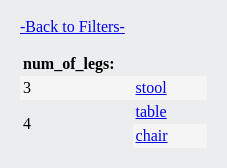
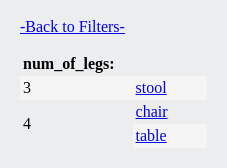
Sort model data by answer column

Changed region(s): [[0.5859, 0.7738, 0.7401, 0.8631], [0.5859, 0.625, 0.7401, 0.7143]]

diff --git a/examples/horse/rank_pages/subpage/match_1.html b/examples/horse/rank_pages/subpage/match_1.html
@@ -4,7 +4,7 @@ File was automatically generated using 'rank-page-generator' project (https://gi
 Project is distributed under the BSD 3-Clause license.
 -->
 <head>
-<title>unicorn - Horse recognition</title>
+<title>pegasus - Horse recognition</title>
 <link rel="stylesheet" type="text/css" href="../styles.css">
 </head>
 <body>
@@ -17,18 +17,18 @@ Project is distributed under the BSD 3-Clause license.
 <div class="characteristics bottomspace">
 <table cellspacing="0">
 <tr> <th>Parameter:</th> <th>Value:</th> </tr>
-<tr> <td>name</td> <td>unicorn</td> </tr>
-<tr> <td>horn</td> <td>yes</td> </tr>
-<tr> <td>wings</td> <td>no</td> </tr>
+<tr> <td>name</td> <td>pegasus</td> </tr>
+<tr> <td>horn</td> <td>no</td> </tr>
+<tr> <td>wings</td> <td>yes</td> </tr>
 <tr> <td>exists</td> <td>fantasy</td> </tr>
-<tr> <td>link</td> <td><a href="https://en.wikipedia.org/wiki/Unicorn">https://en.wikipedia.org/wiki/Unicorn</a></td> </tr>
+<tr> <td>link</td> <td><a href="https://en.wikipedia.org/wiki/Pegasus">https://en.wikipedia.org/wiki/Pegasus</a></td> </tr>
 </table>
 </div>
 <div class="photogallery bottomspace">
 <div class="photostitle">Photos:</div>
 <div class="imgtile">
-    <a href="../img/unicorn/Oftheunicorn.jpg"><img src="../img/unicorn/Oftheunicorn.jpg"></a>
-    <div class="license"><div>License:</div><a href="https://commons.wikimedia.org/wiki/File:Oftheunicorn.jpg">Special Collections, University of Houston Libraries</a>, Public domain, via Wikimedia Commons
+    <a href="../img/pegasus/Pegaz_Opera_Poznan.jpg"><img src="../img/pegasus/Pegaz_Opera_Poznan.jpg"></a>
+    <div class="license"><div>License:</div><a href="https://commons.wikimedia.org/wiki/File:Pegaz_Opera_Pozna%C5%84.jpg">user:Radomil</a>, <a href="http://creativecommons.org/licenses/by-sa/3.0/">CC BY-SA 3.0</a>, via Wikimedia Commons
 </div>
 </div>
 </div>

diff --git a/examples/horse/rank_pages/subpage/match_2.html b/examples/horse/rank_pages/subpage/match_2.html
@@ -4,7 +4,7 @@ File was automatically generated using 'rank-page-generator' project (https://gi
 Project is distributed under the BSD 3-Clause license.
 -->
 <head>
-<title>pegasus - Horse recognition</title>
+<title>unicorn - Horse recognition</title>
 <link rel="stylesheet" type="text/css" href="../styles.css">
 </head>
 <body>
@@ -17,18 +17,18 @@ Project is distributed under the BSD 3-Clause license.
 <div class="characteristics bottomspace">
 <table cellspacing="0">
 <tr> <th>Parameter:</th> <th>Value:</th> </tr>
-<tr> <td>name</td> <td>pegasus</td> </tr>
-<tr> <td>horn</td> <td>no</td> </tr>
-<tr> <td>wings</td> <td>yes</td> </tr>
+<tr> <td>name</td> <td>unicorn</td> </tr>
+<tr> <td>horn</td> <td>yes</td> </tr>
+<tr> <td>wings</td> <td>no</td> </tr>
 <tr> <td>exists</td> <td>fantasy</td> </tr>
-<tr> <td>link</td> <td><a href="https://en.wikipedia.org/wiki/Pegasus">https://en.wikipedia.org/wiki/Pegasus</a></td> </tr>
+<tr> <td>link</td> <td><a href="https://en.wikipedia.org/wiki/Unicorn">https://en.wikipedia.org/wiki/Unicorn</a></td> </tr>
 </table>
 </div>
 <div class="photogallery bottomspace">
 <div class="photostitle">Photos:</div>
 <div class="imgtile">
-    <a href="../img/pegasus/Pegaz_Opera_Poznan.jpg"><img src="../img/pegasus/Pegaz_Opera_Poznan.jpg"></a>
-    <div class="license"><div>License:</div><a href="https://commons.wikimedia.org/wiki/File:Pegaz_Opera_Pozna%C5%84.jpg">user:Radomil</a>, <a href="http://creativecommons.org/licenses/by-sa/3.0/">CC BY-SA 3.0</a>, via Wikimedia Commons
+    <a href="../img/unicorn/Oftheunicorn.jpg"><img src="../img/unicorn/Oftheunicorn.jpg"></a>
+    <div class="license"><div>License:</div><a href="https://commons.wikimedia.org/wiki/File:Oftheunicorn.jpg">Special Collections, University of Houston Libraries</a>, Public domain, via Wikimedia Commons
 </div>
 </div>
 </div>

diff --git a/examples/horse/rank_pages/subpage/category_1.html b/examples/horse/rank_pages/subpage/category_1.html
@@ -11,8 +11,8 @@
 <table cellspacing="0" class="categoriestable">
 <tr> <th>wings:</th> </tr>
 <tr class="roweven"> <td rowspan='2'>no</td> <td><a href="../subpage/match_0.html">horse</a></td> <td><div class='minigallery'><a href="../img/horse/Horse-and-pony.jpeg"><img src="../img/horse/Horse-and-pony.jpeg"></a><a href="../img/horse/Nokota_Horses_cropped.jpeg"><img src="../img/horse/Nokota_Horses_cropped.jpeg"></a><a href="../img/horse/Horsescd1l-095.jpeg"><img src="../img/horse/Horsescd1l-095.jpeg"></a></div></td> </tr>
-<tr class="rowodd">  <td><a href="../subpage/match_1.html">unicorn</a></td> <td><div class='minigallery'><a href="../img/unicorn/Oftheunicorn.jpg"><img src="../img/unicorn/Oftheunicorn.jpg"></a></div></td> </tr>
-<tr class="rowodd"> <td rowspan='1'>yes</td> <td><a href="../subpage/match_2.html">pegasus</a></td> <td><div class='minigallery'><a href="../img/pegasus/Pegaz_Opera_Poznan.jpg"><img src="../img/pegasus/Pegaz_Opera_Poznan.jpg"></a></div></td> </tr>
+<tr class="rowodd">  <td><a href="../subpage/match_2.html">unicorn</a></td> <td><div class='minigallery'><a href="../img/unicorn/Oftheunicorn.jpg"><img src="../img/unicorn/Oftheunicorn.jpg"></a></div></td> </tr>
+<tr class="rowodd"> <td rowspan='1'>yes</td> <td><a href="../subpage/match_1.html">pegasus</a></td> <td><div class='minigallery'><a href="../img/pegasus/Pegaz_Opera_Poznan.jpg"><img src="../img/pegasus/Pegaz_Opera_Poznan.jpg"></a></div></td> </tr>
 </table>
 
 </div>

diff --git a/examples/horse/rank_pages/subpage/category_0.html b/examples/horse/rank_pages/subpage/category_0.html
@@ -11,8 +11,8 @@
 <table cellspacing="0" class="categoriestable">
 <tr> <th>horn:</th> </tr>
 <tr class="roweven"> <td rowspan='2'>no</td> <td><a href="../subpage/match_0.html">horse</a></td> <td><div class='minigallery'><a href="../img/horse/Horse-and-pony.jpeg"><img src="../img/horse/Horse-and-pony.jpeg"></a><a href="../img/horse/Nokota_Horses_cropped.jpeg"><img src="../img/horse/Nokota_Horses_cropped.jpeg"></a><a href="../img/horse/Horsescd1l-095.jpeg"><img src="../img/horse/Horsescd1l-095.jpeg"></a></div></td> </tr>
-<tr class="rowodd">  <td><a href="../subpage/match_2.html">pegasus</a></td> <td><div class='minigallery'><a href="../img/pegasus/Pegaz_Opera_Poznan.jpg"><img src="../img/pegasus/Pegaz_Opera_Poznan.jpg"></a></div></td> </tr>
-<tr class="rowodd"> <td rowspan='1'>yes</td> <td><a href="../subpage/match_1.html">unicorn</a></td> <td><div class='minigallery'><a href="../img/unicorn/Oftheunicorn.jpg"><img src="../img/unicorn/Oftheunicorn.jpg"></a></div></td> </tr>
+<tr class="rowodd">  <td><a href="../subpage/match_1.html">pegasus</a></td> <td><div class='minigallery'><a href="../img/pegasus/Pegaz_Opera_Poznan.jpg"><img src="../img/pegasus/Pegaz_Opera_Poznan.jpg"></a></div></td> </tr>
+<tr class="rowodd"> <td rowspan='1'>yes</td> <td><a href="../subpage/match_2.html">unicorn</a></td> <td><div class='minigallery'><a href="../img/unicorn/Oftheunicorn.jpg"><img src="../img/unicorn/Oftheunicorn.jpg"></a></div></td> </tr>
 </table>
 
 </div>

diff --git a/examples/furniture/rank_pages/index.html b/examples/furniture/rank_pages/index.html
@@ -11,8 +11,8 @@ Project is distributed under the BSD 3-Clause license.
 const ANSWER_COLUMN = "name";
 const VALUES_DICT = {'num_of_legs': [3, 4], 'back': ['no', 'yes'], 'name': ['chair', 'stool', 'table']};
 const CATEGORY_PAGE = {'num_of_legs': 'pages/category_0.html', 'back': 'pages/category_1.html'};
-const DETAILS_PAGE = {'table': 'pages/match_0.html', 'chair': 'pages/match_1.html', 'stool': 'pages/match_2.html'};
-const WEIGHTS_DICT = {'table': {'num_of_legs': {3: 0.0, 4: 1.0}, 'back': {'no': 1.0, 'yes': 0.0}}, 'chair': {'num_of_legs': {3: 0.0, 4: 1.0}, 'back': {'no': 0.0, 'yes': 1.0}}, 'stool': {'num_of_legs': {3: 1.0, 4: 0.0}, 'back': {'no': 1.0, 'yes': 0.0}}};
+const DETAILS_PAGE = {'chair': 'pages/match_0.html', 'stool': 'pages/match_1.html', 'table': 'pages/match_2.html'};
+const WEIGHTS_DICT = {'chair': {'num_of_legs': {3: 0.0, 4: 1.0}, 'back': {'no': 0.0, 'yes': 1.0}}, 'stool': {'num_of_legs': {3: 1.0, 4: 0.0}, 'back': {'no': 1.0, 'yes': 0.0}}, 'table': {'num_of_legs': {3: 0.0, 4: 1.0}, 'back': {'no': 1.0, 'yes': 0.0}}};
 const TRANSLATION_DICT = {'Reset filters': '-Reset filters-', 'Parameters': '-Parameters-', 'Results': '-Results-', 'filterseparator': '#', 'Back to Filters': '-Back to Filters-', 'Prev': '-Prev-', 'Next': '-Next-', 'Parameter': '-Parameter-', 'Value': '-Value-', 'empty': '-empty-', 'Photos': '-Photos-', 'License': '-License-'};
 const PHOTOS_DICT = {};
 </script>

diff --git a/examples/horse/rank_pages/index.html b/examples/horse/rank_pages/index.html
@@ -11,8 +11,8 @@ Project is distributed under the BSD 3-Clause license.
 const ANSWER_COLUMN = "name";
 const VALUES_DICT = {'name': ['horse', 'pegasus', 'unicorn'], 'horn': ['no', 'yes'], 'wings': ['no', 'yes']};
 const CATEGORY_PAGE = {'horn': 'subpage/category_0.html', 'wings': 'subpage/category_1.html'};
-const DETAILS_PAGE = {'horse': 'subpage/match_0.html', 'unicorn': 'subpage/match_1.html', 'pegasus': 'subpage/match_2.html'};
-const WEIGHTS_DICT = {'horse': {'horn': {'no': 1.0, 'yes': 0.0}, 'wings': {'no': 1.0, 'yes': 0.0}}, 'unicorn': {'horn': {'no': 0.0, 'yes': 1.0}, 'wings': {'no': 1.0, 'yes': 0.0}}, 'pegasus': {'horn': {'no': 1.0, 'yes': 0.0}, 'wings': {'no': 0.0, 'yes': 1.0}}};
+const DETAILS_PAGE = {'horse': 'subpage/match_0.html', 'pegasus': 'subpage/match_1.html', 'unicorn': 'subpage/match_2.html'};
+const WEIGHTS_DICT = {'horse': {'horn': {'no': 1.0, 'yes': 0.0}, 'wings': {'no': 1.0, 'yes': 0.0}}, 'pegasus': {'horn': {'no': 1.0, 'yes': 0.0}, 'wings': {'no': 0.0, 'yes': 1.0}}, 'unicorn': {'horn': {'no': 0.0, 'yes': 1.0}, 'wings': {'no': 1.0, 'yes': 0.0}}};
 const TRANSLATION_DICT = {};
 const PHOTOS_DICT = {'horse': ['img/horse/Horse-and-pony.jpeg', 'img/horse/Nokota_Horses_cropped.jpeg', 'img/horse/Horsescd1l-095.jpeg'], 'pegasus': ['img/pegasus/Pegaz_Opera_Poznan.jpg'], 'unicorn': ['img/unicorn/Oftheunicorn.jpg']};
 </script>

diff --git a/examples/simple/rank_pages/index.html b/examples/simple/rank_pages/index.html
@@ -12,8 +12,8 @@ Project is distributed under the BSD 3-Clause license.
 const ANSWER_COLUMN = "name";
 const VALUES_DICT = {'name': ['dog', 'duck', 'eagle', 'fish'], 'swims': ['no', 'yes'], 'flies': ['no', 'yes']};
 const CATEGORY_PAGE = {'swims': 'pages/category_0.html', 'flies': 'pages/category_1.html'};
-const DETAILS_PAGE = {'dog': 'pages/match_0.html', 'fish': 'pages/match_1.html', 'eagle': 'pages/match_2.html', 'duck': 'pages/match_3.html'};
-const WEIGHTS_DICT = {'dog': {'swims': {'no': 1.0, 'yes': 0.0}, 'flies': {'no': 1.0, 'yes': 0.0}}, 'fish': {'swims': {'no': 0.0, 'yes': 1.0}, 'flies': {'no': 1.0, 'yes': 0.0}}, 'eagle': {'swims': {'no': 1.0, 'yes': 0.0}, 'flies': {'no': 0.0, 'yes': 1.0}}, 'duck': {'swims': {'no': 0.0, 'yes': 1.0}, 'flies': {'no': 0.0, 'yes': 1.0}}};
+const DETAILS_PAGE = {'dog': 'pages/match_0.html', 'duck': 'pages/match_1.html', 'eagle': 'pages/match_2.html', 'fish': 'pages/match_3.html'};
+const WEIGHTS_DICT = {'dog': {'swims': {'no': 1.0, 'yes': 0.0}, 'flies': {'no': 1.0, 'yes': 0.0}}, 'duck': {'swims': {'no': 0.0, 'yes': 1.0}, 'flies': {'no': 0.0, 'yes': 1.0}}, 'eagle': {'swims': {'no': 1.0, 'yes': 0.0}, 'flies': {'no': 0.0, 'yes': 1.0}}, 'fish': {'swims': {'no': 0.0, 'yes': 1.0}, 'flies': {'no': 1.0, 'yes': 0.0}}};
 const TRANSLATION_DICT = {};
 const PHOTOS_DICT = {};
 

diff --git a/examples/simple/rank_pages/pages/category_1.html b/examples/simple/rank_pages/pages/category_1.html
@@ -11,9 +11,9 @@
 <table cellspacing="0" class="categoriestable">
 <tr> <th>flies:</th> </tr>
 <tr class="roweven"> <td rowspan='2'>no</td> <td><a href="../pages/match_0.html">dog</a></td> <td></td> </tr>
-<tr class="rowodd">  <td><a href="../pages/match_1.html">fish</a></td> <td></td> </tr>
-<tr class="rowodd"> <td rowspan='2'>yes</td> <td><a href="../pages/match_2.html">eagle</a></td> <td></td> </tr>
-<tr class="roweven">  <td><a href="../pages/match_3.html">duck</a></td> <td></td> </tr>
+<tr class="rowodd">  <td><a href="../pages/match_3.html">fish</a></td> <td></td> </tr>
+<tr class="rowodd"> <td rowspan='2'>yes</td> <td><a href="../pages/match_1.html">duck</a></td> <td></td> </tr>
+<tr class="roweven">  <td><a href="../pages/match_2.html">eagle</a></td> <td></td> </tr>
 </table>
 
 </div>

diff --git a/examples/furniture/rank_pages/pages/category_0.html b/examples/furniture/rank_pages/pages/category_0.html
@@ -10,9 +10,9 @@
 <div class="categories bottomspace">
 <table cellspacing="0" class="categoriestable">
 <tr> <th>num_of_legs:</th> </tr>
-<tr class="roweven"> <td rowspan='1'>3</td> <td><a href="../pages/match_2.html">stool</a></td> <td></td> </tr>
-<tr class="rowodd"> <td rowspan='2'>4</td> <td><a href="../pages/match_0.html">table</a></td> <td></td> </tr>
-<tr class="roweven">  <td><a href="../pages/match_1.html">chair</a></td> <td></td> </tr>
+<tr class="roweven"> <td rowspan='1'>3</td> <td><a href="../pages/match_1.html">stool</a></td> <td></td> </tr>
+<tr class="rowodd"> <td rowspan='2'>4</td> <td><a href="../pages/match_0.html">chair</a></td> <td></td> </tr>
+<tr class="roweven">  <td><a href="../pages/match_2.html">table</a></td> <td></td> </tr>
 </table>
 
 </div>

diff --git a/examples/furniture/rank_pages/pages/category_1.html b/examples/furniture/rank_pages/pages/category_1.html
@@ -10,9 +10,9 @@
 <div class="categories bottomspace">
 <table cellspacing="0" class="categoriestable">
 <tr> <th>back:</th> </tr>
-<tr class="roweven"> <td rowspan='2'>no</td> <td><a href="../pages/match_0.html">table</a></td> <td></td> </tr>
-<tr class="rowodd">  <td><a href="../pages/match_2.html">stool</a></td> <td></td> </tr>
-<tr class="rowodd"> <td rowspan='1'>yes</td> <td><a href="../pages/match_1.html">chair</a></td> <td></td> </tr>
+<tr class="roweven"> <td rowspan='2'>no</td> <td><a href="../pages/match_1.html">stool</a></td> <td></td> </tr>
+<tr class="rowodd">  <td><a href="../pages/match_2.html">table</a></td> <td></td> </tr>
+<tr class="rowodd"> <td rowspan='1'>yes</td> <td><a href="../pages/match_0.html">chair</a></td> <td></td> </tr>
 </table>
 
 </div>

diff --git a/examples/simple/rank_pages/pages/category_0.html b/examples/simple/rank_pages/pages/category_0.html
@@ -12,8 +12,8 @@
 <tr> <th>swims:</th> </tr>
 <tr class="roweven"> <td rowspan='2'>no</td> <td><a href="../pages/match_0.html">dog</a></td> <td></td> </tr>
 <tr class="rowodd">  <td><a href="../pages/match_2.html">eagle</a></td> <td></td> </tr>
-<tr class="rowodd"> <td rowspan='2'>yes</td> <td><a href="../pages/match_1.html">fish</a></td> <td></td> </tr>
-<tr class="roweven">  <td><a href="../pages/match_3.html">duck</a></td> <td></td> </tr>
+<tr class="rowodd"> <td rowspan='2'>yes</td> <td><a href="../pages/match_1.html">duck</a></td> <td></td> </tr>
+<tr class="roweven">  <td><a href="../pages/match_3.html">fish</a></td> <td></td> </tr>
 </table>
 
 </div>

diff --git a/examples/furniture/rank_pages/pages/match_1.html b/examples/furniture/rank_pages/pages/match_1.html
@@ -17,9 +17,9 @@ Project is distributed under the BSD 3-Clause license.
 <div class="characteristics bottomspace">
 <table cellspacing="0">
 <tr> <th>-Parameter-:</th> <th>-Value-:</th> </tr>
-<tr> <td>num_of_legs</td> <td>4</td> </tr>
-<tr> <td>back</td> <td>yes</td> </tr>
-<tr> <td>name</td> <td>chair</td> </tr>
+<tr> <td>num_of_legs</td> <td>3</td> </tr>
+<tr> <td>back</td> <td>no</td> </tr>
+<tr> <td>name</td> <td>stool</td> </tr>
 </table>
 </div>
 
